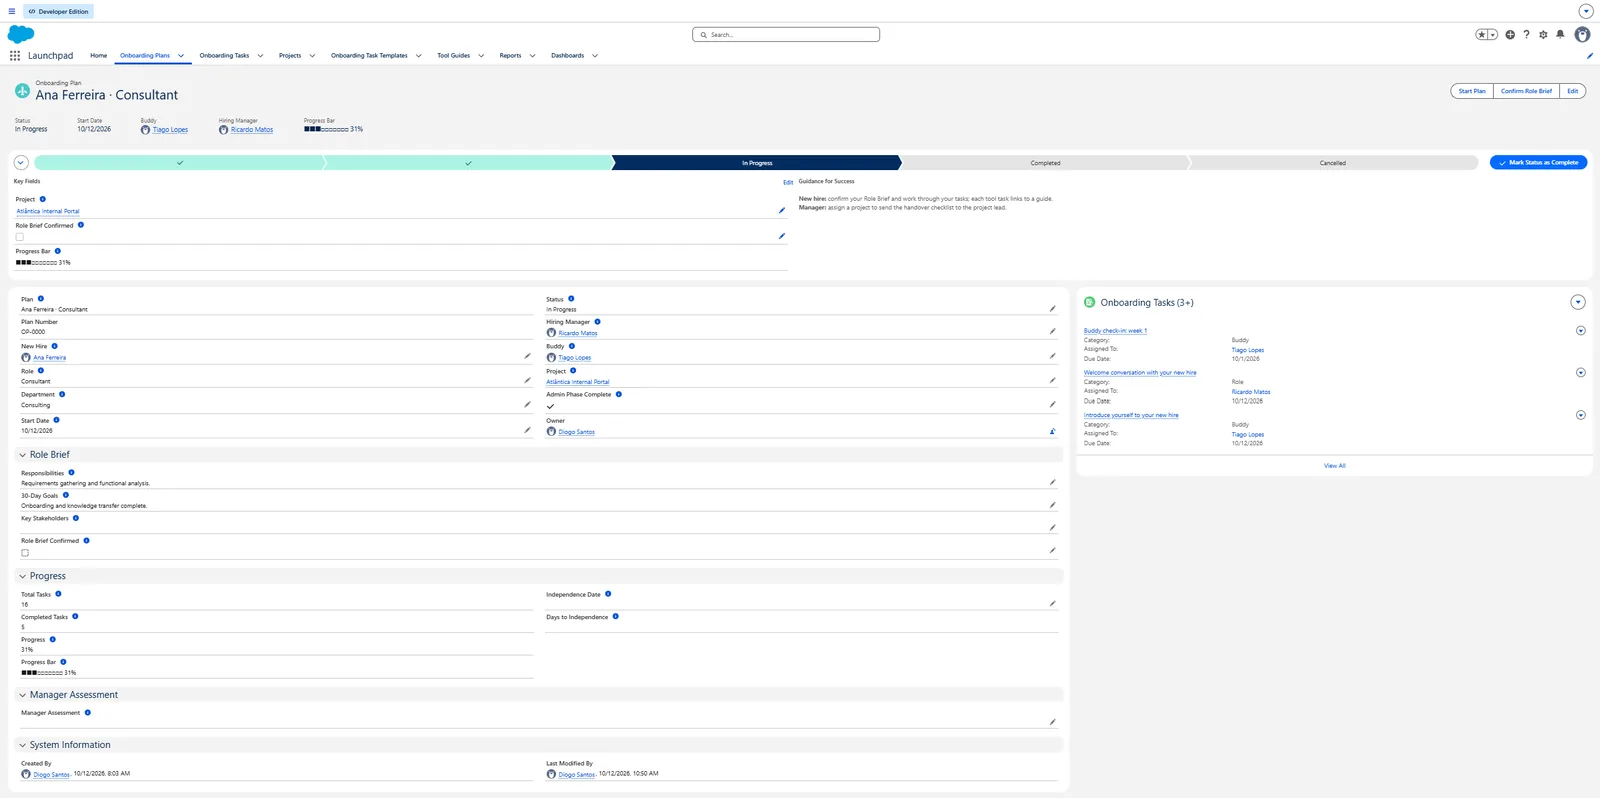
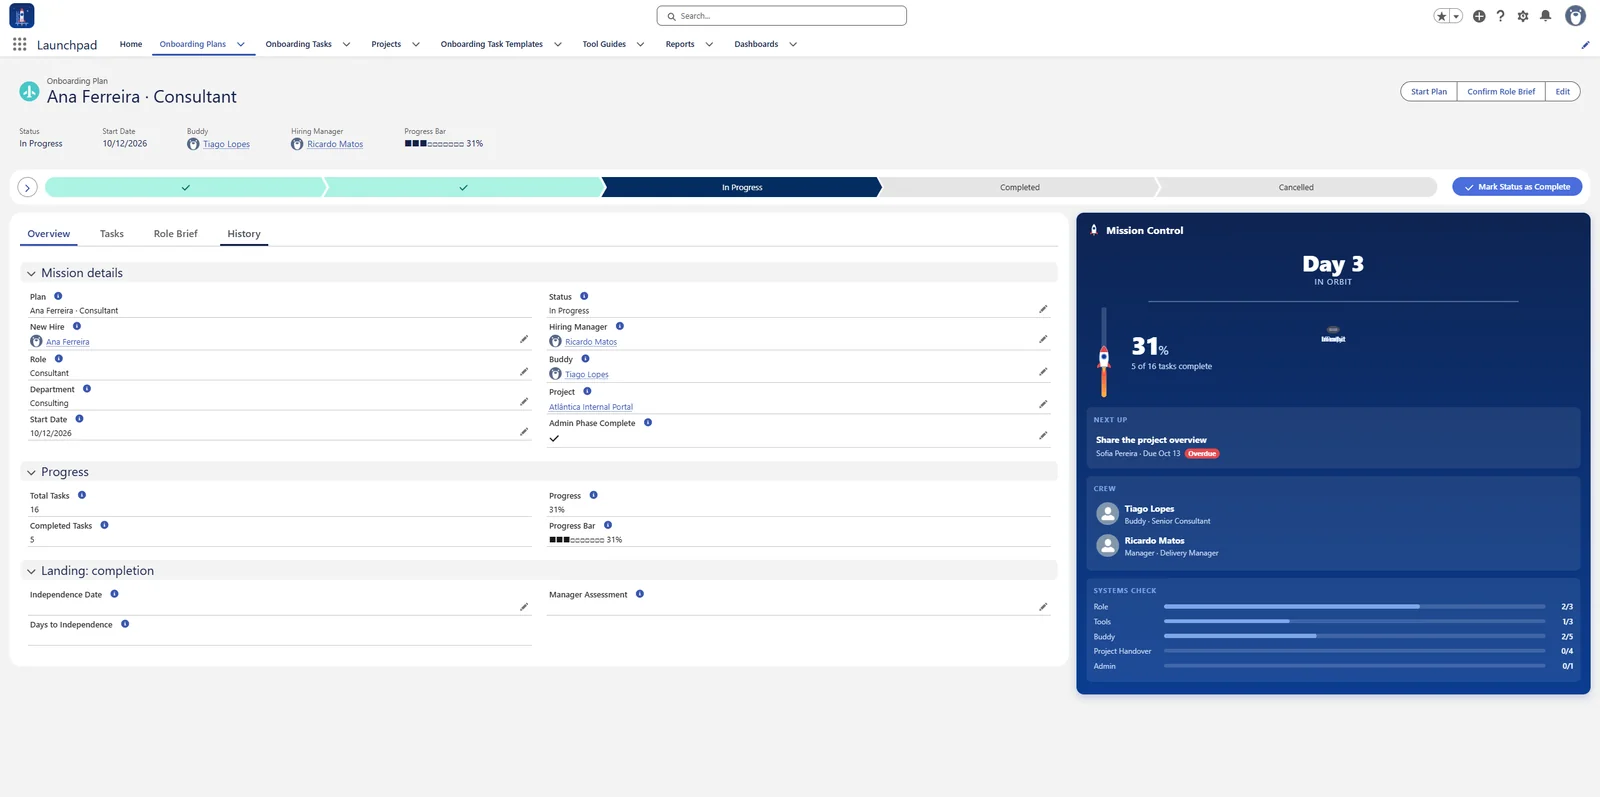
Launchpad: new plan screenshot with Mission Control

diff --git a/assets/js/data.js b/assets/js/data.js
@@ -57,7 +57,7 @@ const CV = {
       context:"Personal project · Salesforce · 2026",
       shots:[
         {src:"assets/img/shots/launchpad-cover.webp", caption:"Launchpad: employee onboarding on Salesforce, from role preparation to independence"},
-        {src:"assets/img/shots/launchpad-plan.webp", caption:"Onboarding plan with a Path, tabs, quick actions and the Mission Control component: launch countdown, next task and crew"},
+        {src:"assets/img/shots/launchpad-plan.webp?v=20261014-3", caption:"Onboarding plan with a Path, tabs, quick actions and the Mission Control component: launch countdown, next task and crew"},
         {src:"assets/img/shots/launchpad-home.webp", caption:"Command Centre: live KPIs against the 21-day target and a launch watchlist that flags plans with no buddy or Role Brief"},
         {src:"assets/img/shots/launchpad-tasks.webp", caption:"Onboarding tasks generated from templates and assigned to the new hire, manager, buddy and HR"},
         {src:"assets/img/shots/launchpad-validation.webp", caption:"Validation rules enforce the plan lifecycle, from Draft to Ready to In Progress"},

diff --git a/index.html b/index.html
@@ -105,7 +105,7 @@
   </div>
 </div>
 <footer><div class="wrap">© 2026 Diogo Santos · Business analyst &amp; consultant · Lisbon, Portugal</div></footer>
-<script src="assets/js/data.js?v=20261014-2"></script>
+<script src="assets/js/data.js?v=20261014-3"></script>
 <script src="assets/js/app.js?v=20261014"></script>
 </body>
 </html>
